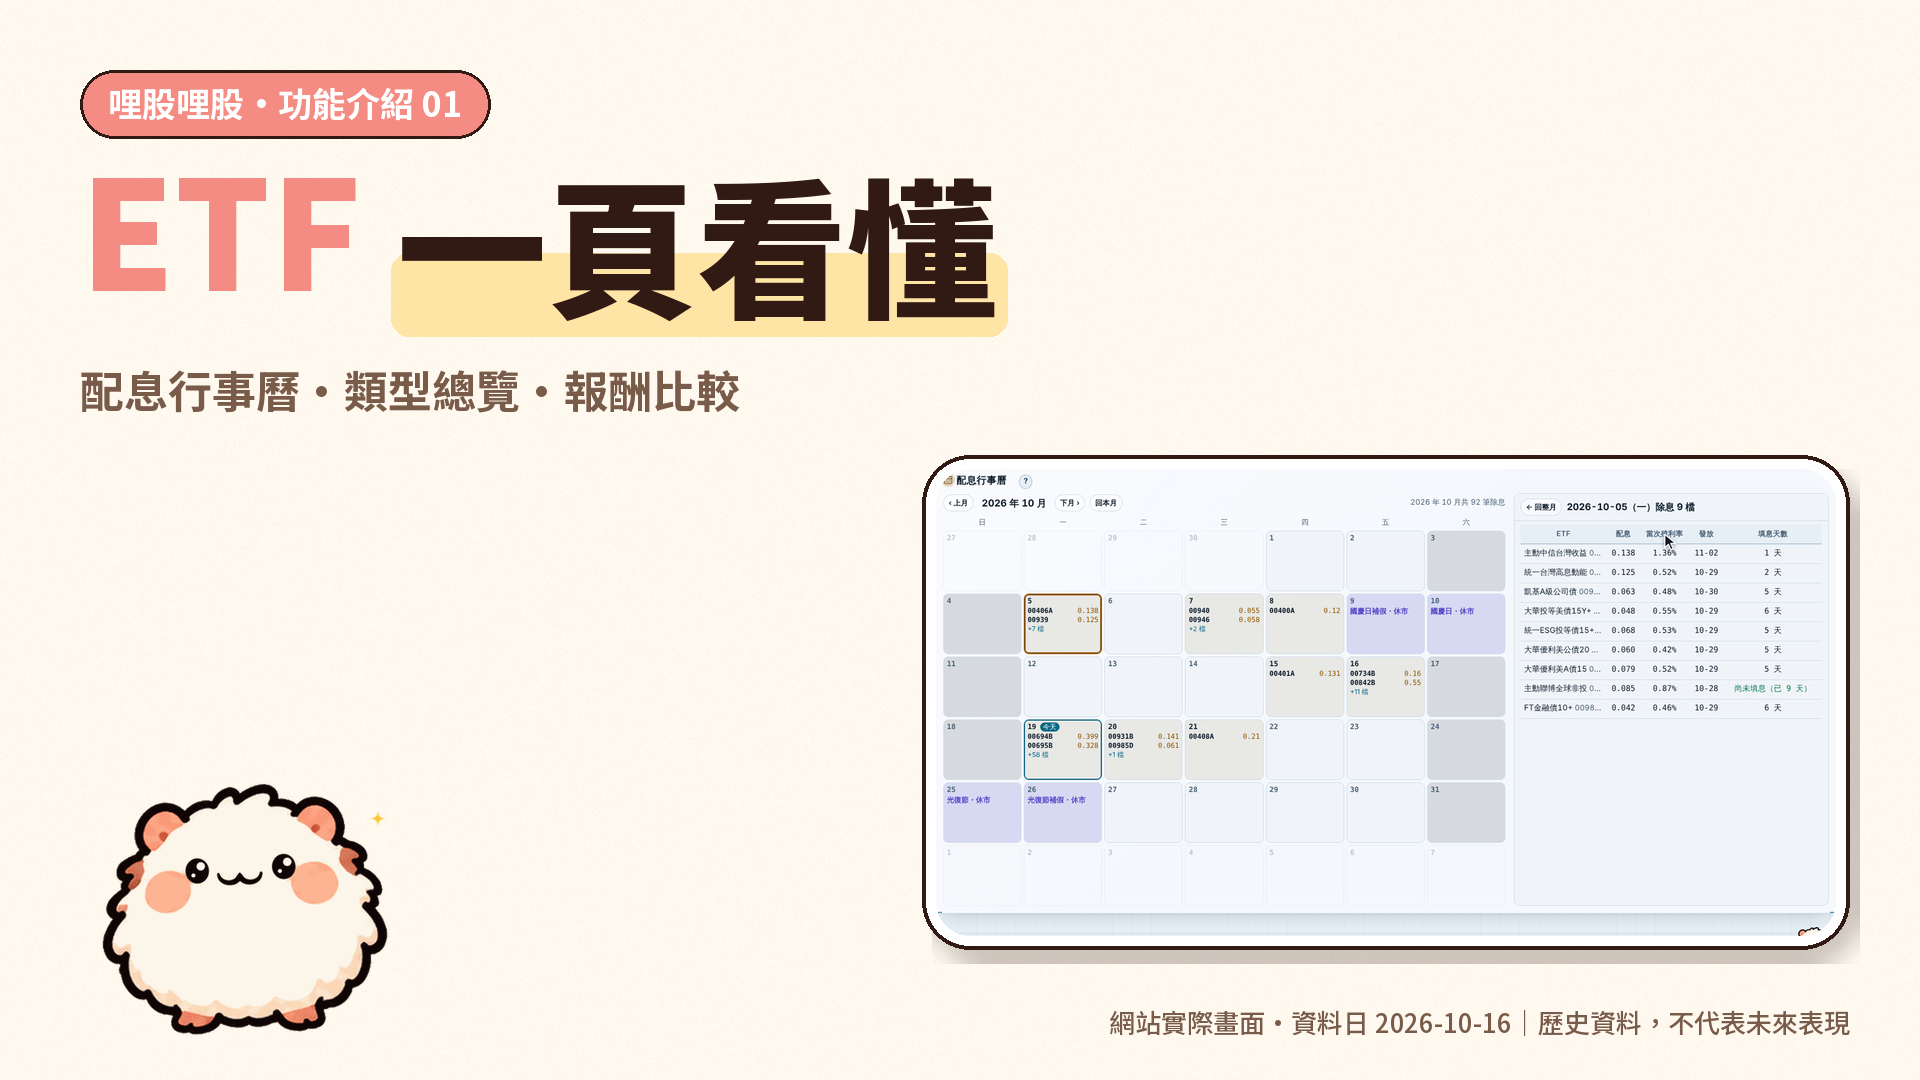
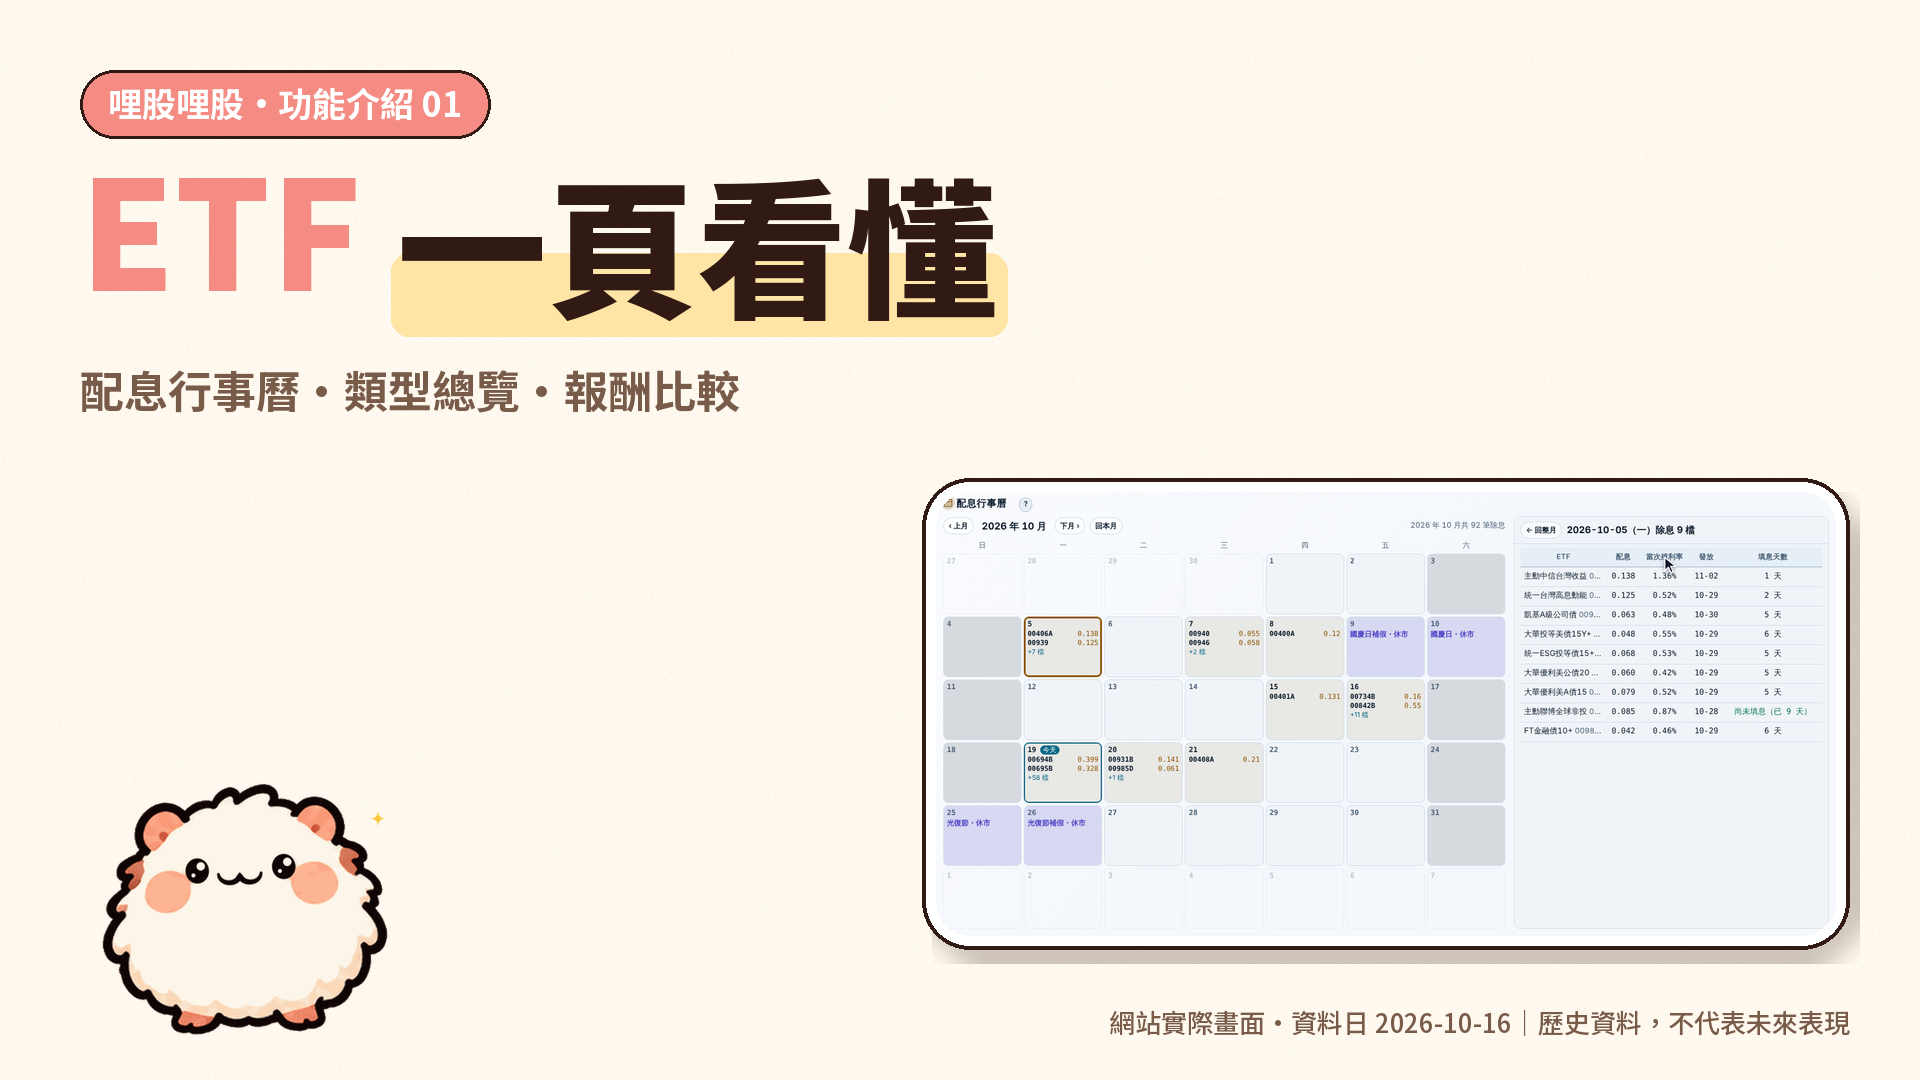
功能影片 01 ETF：封面兩張改用第 2 版訪客畫面截圖
Claude-Session: https://claude.ai/code/session_01BcUKrYHkJGWWm6eHcrVxVX

Changed region(s): [[0.4688, 0.3972, 0.9688, 0.8556]]

diff --git a/docs/marketing/videos/feature_series/01_etf/make_cover.py b/docs/marketing/videos/feature_series/01_etf/make_cover.py
@@ -38,7 +38,7 @@ def shot_crop():
     cx = meta.get("content_x") or [0, im.width]
     # 配息行事曆卡片：左右用內容區、上下取卡片範圍（約 css 64～872）
     asof = json.loads((R.REPO / "site" / "data" / "etf.json").read_text(encoding="utf-8")).get("asof")
-    return im.crop((cx[0] + 10, 2 * 64, cx[1] - 10, 2 * 836)), asof or meta.get("data_date")
+    return im.crop((cx[0] + 10, 2 * 64, cx[1] - 10, 2 * (798 if R.FAST else 836))), asof or meta.get("data_date")
 
 
 def sticker(im, w, radius=34, border=14):
